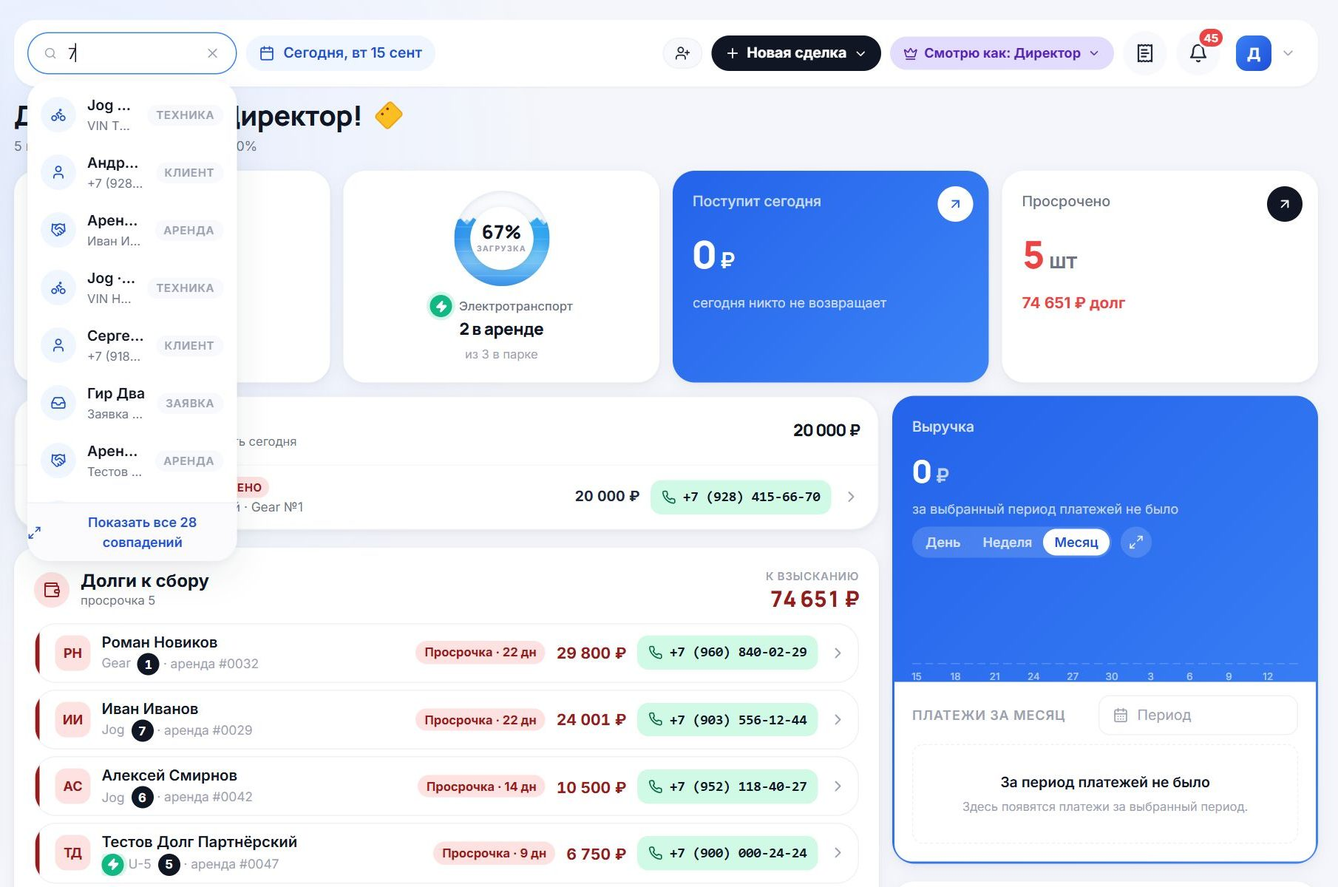
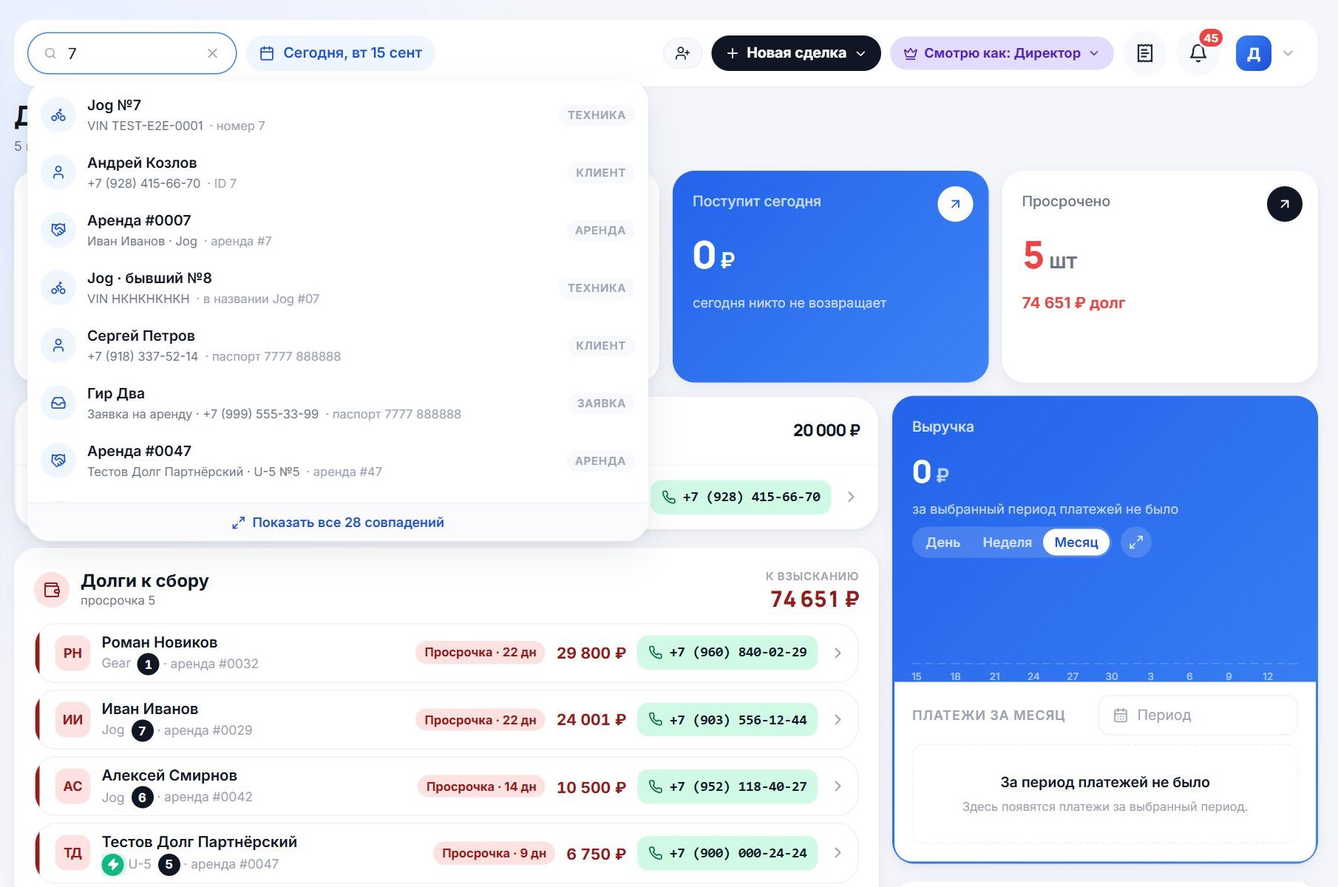
docs(развитие, релиз 2.0.1): пункты 2.82–2.90 и «Что нового» 2.0.1
Пункты по правкам вечера 15.09 — вход не сбрасывает пароль, номера скутеров,
поиск по номеру, бывший номер, фильтр моделей, статус «В работе», аналитика
по расчётному периоду, показ обновления 2.0, широкий список поиска. Всё
выкатывается в прод — статусы «В работе». Версия 2.0.0 → 2.0.1, запись в
«Что нового» (4 было→стало, 10 правок).

diff --git a/apps/web/src/data/progress.ts b/apps/web/src/data/progress.ts
@@ -1817,6 +1817,223 @@ export const progressItems: ProgressItem[] = [
     ],
   },
   {
+    id: "2.90",
+    updatedAt: "2026-09-15",
+    group: "fixes2",
+    title: "Список поиска шире — совпадение читается сразу, без полного экрана",
+    quote:
+      "Вариации ответов здесь слишком узкие. Оно должно быть широкое, чтобы можно было с этой строчки прочитать, не заходя в полноэкранный режим.",
+    status: "live",
+    note:
+      "Выпадающий список общего поиска был шириной самого поля, и строки обрезались: «Jog …», «Андр…», «VIN TEST-E2E-…». Теперь список до 560 точек: видно, что это за техника или клиент и что именно совпало. На весь экран уходят, только когда совпадений много.",
+    story: [
+      {
+        tag: "bug",
+        text: "Список совпадений повторял ширину поля в шапке — половина текста уходила в многоточие, приходилось открывать полный экран.",
+        imgs: [{ src: "/progress/search-list-was.jpg", label: "БЫЛО: узкий список, строки обрезаны" }],
+      },
+      {
+        tag: "fix",
+        text: "Список стал шире поля: название, VIN или телефон и «что совпало» помещаются целиком.",
+        imgs: [{ src: "/progress/search-list-now.jpg", label: "СТАЛО: широкий список — всё читается из строки" }],
+      },
+    ],
+  },
+  {
+    id: "2.89",
+    updatedAt: "2026-09-15",
+    group: "fixes2",
+    title: "Первый вход после 2.0: заставка, карточки «Что изменилось» и подсказки на месте",
+    quote: "Первый вход после релиза они не увидели.",
+    status: "live",
+    note:
+      "Согласованный концепт встроен в CRM. При следующем входе каждый, кто ещё не видел обновление, получает титул «Версия 2.0», затем до шести карточек по своей роли и устройству и подсказки у настоящих кнопок. «Позже» — показ вернётся при следующем входе. Директор в «Сотрудниках» видит, кто посмотрел.",
+    story: [
+      {
+        tag: "bug",
+        text: "Концепт показа согласовали, но в CRM его не встроили: после выкладки 2.0 никто ничего не увидел — только тихий раздел «Что нового».",
+      },
+      {
+        tag: "fix",
+        text: "Титул большой версии: логотип вылетает и переворачивается, лучи и конфетти. «Смотреть, что нового» проваливает в карточки, «Позже» — вернёт показ при следующем входе, но не больше трёх раз.",
+        imgs: [
+          { src: "/progress/tour-m-01-intro.jpg", label: "СТАЛО: шаг 1 — титул «Версия 2.0» при входе" },
+          { src: "/progress/tour-d-02-card.jpg", label: "СТАЛО: шаг 2 — карточка «Продажи», 2 из 6" },
+        ],
+      },
+      {
+        tag: "fix",
+        text: "Карточки подобраны по роли: директору — «Сотрудники и права», сотруднику — «Свой логин»; пункты про прибыль видит только тот, у кого есть право. У ремонтов и новой сделки с телефона — сравнение «было / стало»: линия сама качается влево-вправо и подписана «Потяните, чтобы сравнить».",
+        imgs: [{ src: "/progress/tour-d-05-before-after.jpg", label: "СТАЛО: шаг 3 — «было / стало» у ремонтов, линию можно тянуть" }],
+      },
+      {
+        tag: "fix",
+        text: "«Показать где» подсвечивает пункт меню и кнопку в самом разделе. Подсказка на месте срабатывает и сама — при первом заходе в раздел; «Понятно» — больше не покажется. У новых разделов в меню 7 дней горит метка «новое».",
+        imgs: [
+          { src: "/progress/tour-d-03-where.jpg", label: "СТАЛО: шаг 4 — «Где найти «Продажи»» у пункта меню" },
+          { src: "/progress/tour-d-04-hint.jpg", label: "СТАЛО: шаг 5 — подсказка «Витрина» у вкладки" },
+        ],
+      },
+      {
+        tag: "fix",
+        text: "Отметки хранятся на сервере у каждого аккаунта: смена устройства ничего не сбрасывает. Директор в «Сотрудниках» видит, кто посмотрел, кто отложил и кто ещё не открывал.",
+        imgs: [{ src: "/progress/tour-d-06-who.jpg", label: "СТАЛО: шаг 6 — «Обновление 2.0: кто посмотрел»" }],
+      },
+    ],
+  },
+  {
+    id: "2.88",
+    updatedAt: "2026-09-15",
+    group: "fixes2",
+    title: "Аналитика по текущему расчётному периоду — по умолчанию и на втором мониторе",
+    quote:
+      "И ещё в аналитике возможность поставить отображать данные по умолчанию по текущему расчётному периоду, аналогично чтобы второй монитор отображал по выбранному периоду.",
+    status: "live",
+    note:
+      "Рядом с «Месяцем» появился «Расчётный период» — границы берутся из настроек периода, как в «Выручке». Выбрали период, который не совпадает с сохранённым, — появляется «Сделать по умолчанию». Второй монитор открывается с выбранным периодом и переключается следом, если его поменять при открытой стене.",
+    story: [
+      {
+        tag: "bug",
+        text: "Аналитика считала только календарные периоды — сегодня, неделя, месяц, год. Расчётного периода не было, а второй монитор всегда брал период, сохранённый у доски, а не выбранный на экране.",
+      },
+      {
+        tag: "fix",
+        text: "Нажали «Расчётный период» — цифры и советы «Что делать» пересчитаны с начала периода, подпись «15 сен — 14 окт». «Сделать по умолчанию» запоминает период для доски и второго монитора.",
+        imgs: [{ src: "/progress/analytics-billing-now.jpg", label: "СТАЛО: «Расчётный период» и кнопка «Сделать по умолчанию»" }],
+      },
+    ],
+  },
+  {
+    id: "2.87",
+    updatedAt: "2026-09-15",
+    group: "fixes2",
+    title: "«Развитие»: всё, что ушло в работу, — «В работе», а не «на проверке»",
+    quote:
+      "Мы же получается замерджили в прод, значит весь этот список в развитии уже в работе. Он на проверке был, пока он был на превью.",
+    status: "live",
+    note:
+      "Пункты, выкаченные в рабочую CRM, отмечены зелёным «В работе». «На проверке» остаётся только у того, что пока на тестовой версии; то, что ещё делается, называется «В разработке».",
+    story: [
+      {
+        tag: "bug",
+        text: "После выхода 2.0 все 111 пунктов по-прежнему висели «Готово, на проверке», хотя уже работали в CRM.",
+      },
+      {
+        tag: "fix",
+        text: "Новый статус «В работе» — у всего выкаченного; счётчик глав считает их готовыми, шапка пишет, сколько пунктов уже работает в CRM.",
+        imgs: [{ src: "/progress/progress-live-now.jpg", label: "СТАЛО: пункты 2.0 отмечены «В работе»" }],
+      },
+    ],
+  },
+  {
+    id: "2.86",
+    updatedAt: "2026-09-15",
+    group: "fixes2",
+    title: "«Скутеры»: окно «Фильтр по моделям» больше не прячется под списком",
+    quote:
+      "Если я сейчас на фильтр навожу, фильтры модели, то эта плашка выходит куда-то за блок. Мы не можем отсеять ни по моделям, ни по номерам здесь.",
+    status: "live",
+    note:
+      "Окно фильтра рисовалось под карточкой списка — видно было только его край. Теперь оно открывается поверх списка, модели выбираются как положено. По номеру отсеивает строка поиска над списком (пункт 2.84).",
+    story: [
+      {
+        tag: "bug",
+        text: "Кнопка фильтра стоит внутри блока, который запирал окно в своём слое, и список ложился сверху: от окна торчал только заголовок.",
+      },
+      {
+        tag: "fix",
+        text: "Строка поиска с фильтром получила свой слой над списком — окно «Фильтр по моделям» целиком видно и нажимается.",
+        imgs: [{ src: "/progress/fleet-filter-now.jpg", label: "СТАЛО: окно фильтра моделей поверх списка" }],
+      },
+    ],
+  },
+  {
+    id: "2.85",
+    updatedAt: "2026-09-15",
+    group: "fixes2",
+    title: "Бывший номер — отдельной пометкой «Бывший №80», чтобы не спутать с действующим",
+    quote:
+      "Показывать бывший номер такой-то. Это не рядом с названием надо, а какой-то бейджик отдельный, чтобы визуально мы глазом не попали и случайно не перепутали.",
+    status: "live",
+    note:
+      "Техника вне аренды — на продаже, проданная, в разборке — снова отличается номером, но номер не рисуется чёрным кружком у названия. Он стоит жёлтой пометкой «Бывший №80» в колонке статуса, в карточке, в выкупе, архиве и партнёрке. 57 скутерам вне аренды бывший номер проставлен из названия.",
+    story: [
+      {
+        tag: "bug",
+        text: "После 2.0 у техники вне аренды номера не было вовсе: «Gear #80» показывался просто «Gear», шесть скутеров на витрине не различить.",
+      },
+      {
+        tag: "fix",
+        text: "Бывший номер — пометкой «Бывший №…» рядом со статусом, отдельно от названия. Поиск «бывший 80» находит такую технику.",
+        imgs: [{ src: "/progress/ex-number-now.jpg", label: "СТАЛО: «Продан · Бывший №2» — в колонке статуса" }],
+      },
+    ],
+  },
+  {
+    id: "2.84",
+    updatedAt: "2026-09-15",
+    group: "fixes2",
+    title: "Поиск находит скутер по номеру: «7», «07», «№7», «айма 01», «бывший 80»",
+    quote:
+      "Вбиваем номер в поиске, а он не ищет. Они говорят «АЙМА 01» — мы его даже найти не можем. Надо это подкорректировать.",
+    status: "live",
+    note:
+      "И в «Скутерах», и в общем поиске номер понимается в любом виде. Первым идёт скутер с этим действующим номером, за ним — с таким номером в названии («aima #01»), потом бывший номер. Короткое число больше не совпадает кусочком VIN или рамы — раньше нужный скутер тонул среди чужих.",
+    story: [
+      {
+        tag: "bug",
+        text: "«1» совпадало с любым VIN, где встречается единица, а «01» не находило скутер №1: номера сравнивались как текст. Модель по-русски («айма», «джог») поиск не понимал.",
+      },
+      {
+        tag: "fix",
+        text: "Номер сравнивается как число, «№», «#», «номер» и модель по-русски понимаются. Короткое число ищется только среди номеров.",
+        imgs: [{ src: "/progress/number-search-fleet.jpg", label: "СТАЛО: «Скутеры», поиск «джог 7» — сразу Jog ⑦" }],
+      },
+    ],
+  },
+  {
+    id: "2.83",
+    updatedAt: "2026-09-15",
+    group: "fixes2",
+    title: "Номера скутеров совпадают с номерами на технике",
+    quote:
+      "Проверь, чтобы все данные у них чётко отображались, потому что есть предположения, что что-то там уже некорректно считается.",
+    status: "live",
+    note:
+      "Проверил данные рабочей CRM после выхода 2.0: у всех 70 скутеров арендного парка номер в кружке не совпадал с номером в названии. Номера вернул из названий — сначала на копии базы, затем в рабочей. Три скутера с одинаковым номером в названии получили свободные: aima #01 → №68, Jog #02 → №69, Jog #39 (бывший «Jog #35.1») → №70.",
+    story: [
+      {
+        tag: "bug",
+        text: "При выходе 2.0 арендные номера раздались по алфавиту названий: «Gear #02» получил ①, «Jog #01» — ⑭. Совпадений с номерами на технике — ноль, и сотрудники видели чужие номера.",
+      },
+      {
+        tag: "fix",
+        text: "Каждому скутеру возвращён номер из названия, запись об этом — в журнале. Раздача номеров при обновлении теперь берёт номер из названия и срабатывает один раз, поэтому номера, выставленные вручную, больше не перетрутся.",
+      },
+    ],
+  },
+  {
+    id: "2.82",
+    updatedAt: "2026-09-15",
+    group: "fixes2",
+    title: "Экран входа больше не сбрасывает набираемый пароль",
+    quote: "Страница на входе сама постоянно обновляется, что не даёт нормально ввести пароль.",
+    status: "live",
+    note:
+      "После выхода 2.0 у всех в браузере осталась старая сессия. Экран входа раз в полминуты и при каждом открытии клавиатуры на телефоне перерисовывал форму — выбранная плитка и пароль пропадали. Исправлено в тот же вечер: форма стоит, пока не нажали «Войти».",
+    story: [
+      {
+        tag: "bug",
+        text: "Ещё до входа CRM запрашивала настройки, получала «сессия сброшена» и перезапускала экран входа — поверх набранного пароля.",
+      },
+      {
+        tag: "fix",
+        text: "До входа эти запросы не идут, а реакция на сброшенную сессию срабатывает только внутри CRM. Проверил на рабочей CRM со старой сессией: 50 секунд ввода — форма не пересоздаётся.",
+        imgs: [{ src: "/release/2.0/d-login.jpg", label: "СТАЛО: экран входа держит выбранную плитку и пароль" }],
+      },
+    ],
+  },
+  {
     id: "2.81",
     updatedAt: "2026-09-15",
     group: "fixes2",

diff --git a/apps/web/src/data/releases.ts b/apps/web/src/data/releases.ts
@@ -36,9 +36,63 @@ export type Release = {
 };
 
 /** Текущая версия приложения (показывается в тосте и в «Что нового»). */
-export const APP_VERSION = "2.0.0";
+export const APP_VERSION = "2.0.1";
 
 export const releases: Release[] = [
+  {
+    version: "2.0.1",
+    date: "2026-09-15",
+    title: "Номера скутеров, поиск по номеру и показ обновления 2.0",
+    highlights: [
+      {
+        title: "Номера скутеров — как на технике",
+        before: "После выхода 2.0 у скутеров арендного парка стояли чужие номера: их раздали по алфавиту названий.",
+        after: "Каждому скутеру возвращён номер из названия. Технику вне аренды отличает пометка «Бывший №…».",
+      },
+      {
+        title: "Скутер находится по номеру",
+        before: "«1» совпадало кусочком с любым VIN, «01» не находило скутер №1, «айма 01» поиск не понимал.",
+        after: "Номер ищется в любом виде — «7», «№7», «айма 01», «бывший 80»; список совпадений читается без полного экрана.",
+      },
+      {
+        title: "Обновление 2.0 показывается каждому",
+        before: "Первый вход после выхода 2.0 ничем не отличался от обычного — что изменилось, никто не увидел.",
+        after: "Заставка «Версия 2.0», карточки по роли и подсказки у кнопок. Директор видит, кто посмотрел.",
+      },
+      {
+        title: "Аналитика за расчётный период",
+        before: "Только сегодня, неделя, месяц и год; второй монитор брал сохранённый период, а не выбранный.",
+        after: "Есть «Расчётный период», его можно сделать по умолчанию — и второй монитор покажет его же.",
+      },
+    ],
+    changes: [
+      {
+        group: "Вход и показ обновления",
+        items: [
+          "Экран входа больше не сбрасывает выбранную плитку и набираемый пароль.",
+          "Первый вход после 2.0: заставка «Версия 2.0», карточки «Что изменилось» по роли и подсказки у настоящих кнопок; «Позже» — показ вернётся при следующем входе.",
+          "Метка «новое» у «Продаж», «Выкупа» и «Аналитики» на 7 дней; директору в «Сотрудниках» — кто посмотрел обновление.",
+        ],
+      },
+      {
+        group: "Скутеры и поиск",
+        items: [
+          "Арендные номера снова совпадают с номерами на технике (после 2.0 были розданы по алфавиту); три дубля получили №68–70.",
+          "Поиск находит скутер по номеру: «7», «07», «№7», «айма 01», «бывший 80» — в «Скутерах» и в общем поиске.",
+          "Бывший номер техники вне аренды — пометкой «Бывший №…» отдельно от названия.",
+          "Окно «Фильтр по моделям» больше не прячется под списком.",
+          "Список общего поиска шире — совпадение читается прямо из строки.",
+        ],
+      },
+      {
+        group: "Аналитика и «Развитие»",
+        items: [
+          "Период «Расчётный период»: можно сделать по умолчанию, второй монитор показывает выбранный период.",
+          "В «Развитии» выкаченные пункты отмечены «В работе».",
+        ],
+      },
+    ],
+  },
   {
     version: "2.0.0",
     date: "2026-09-15",
